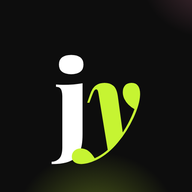
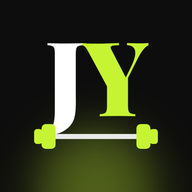
Иконка JY с гантелькой, вернуть .gitignore и README
Claude-Session: https://claude.ai/code/session_01S66zXzcUYdboffEbL2Kram

diff --git a/README.md b/README.md
@@ -1,4 +1,4 @@
-# Forma — дневник тренировок
+# Jaylle fitness — дневник тренировок
 
 PWA на React + TypeScript (Vite). Данные хранятся локально в браузере (localStorage), один пользователь.
 
@@ -9,5 +9,8 @@ PWA на React + TypeScript (Vite). Данные хранятся локальн
 
 Где что лежит:
 - `src/data/machines.ts` — тренажёры зала, упражнения, формулы подбора настроек по росту, инструкции
-- `src/lib/plan.ts` — расписание, прогрессия (двойная прогрессия, каждая 4-я неделя разгрузочная), перерасчёт по факту
+- `src/lib/plan.ts` — расписание, прогрессия (по умолчанию 3 × 15, вес +1 шаг раз в две недели, без разгрузок), перерасчёт по факту
 - `src/components/ExerciseAnimation.tsx` — точка подключения SVG-анимаций (`public/animations/<id>.svg`)
+
+
+Публикация: каждый пуш в `main` собирает приложение и выкладывает его на GitHub Pages (`.github/workflows/pages.yml`).
